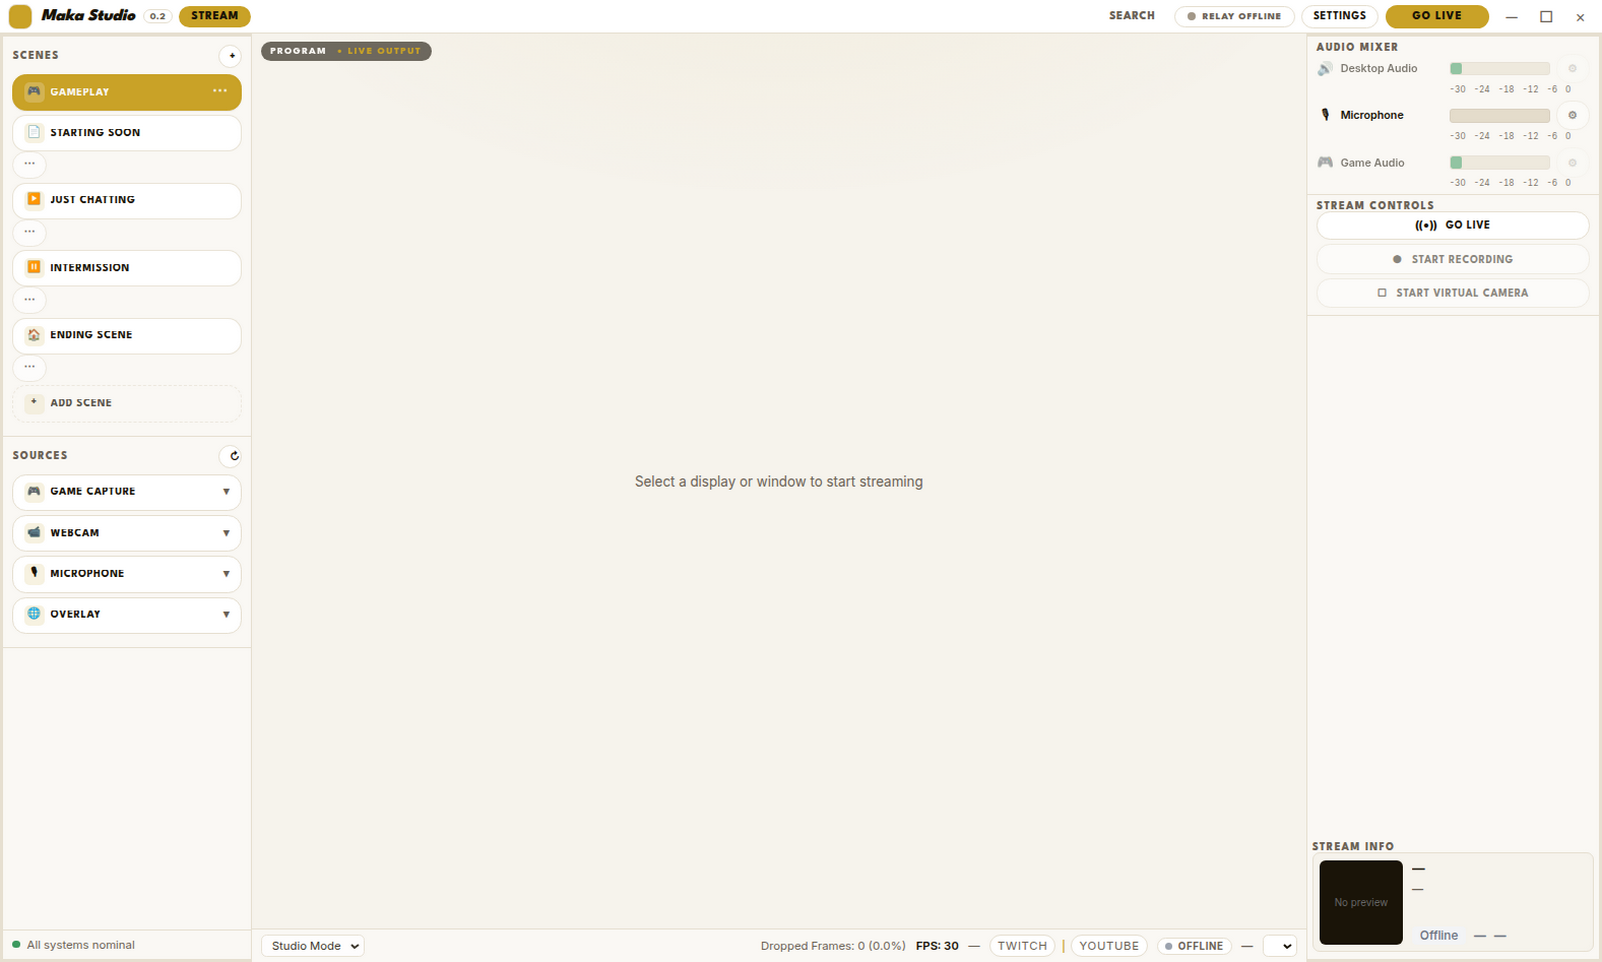
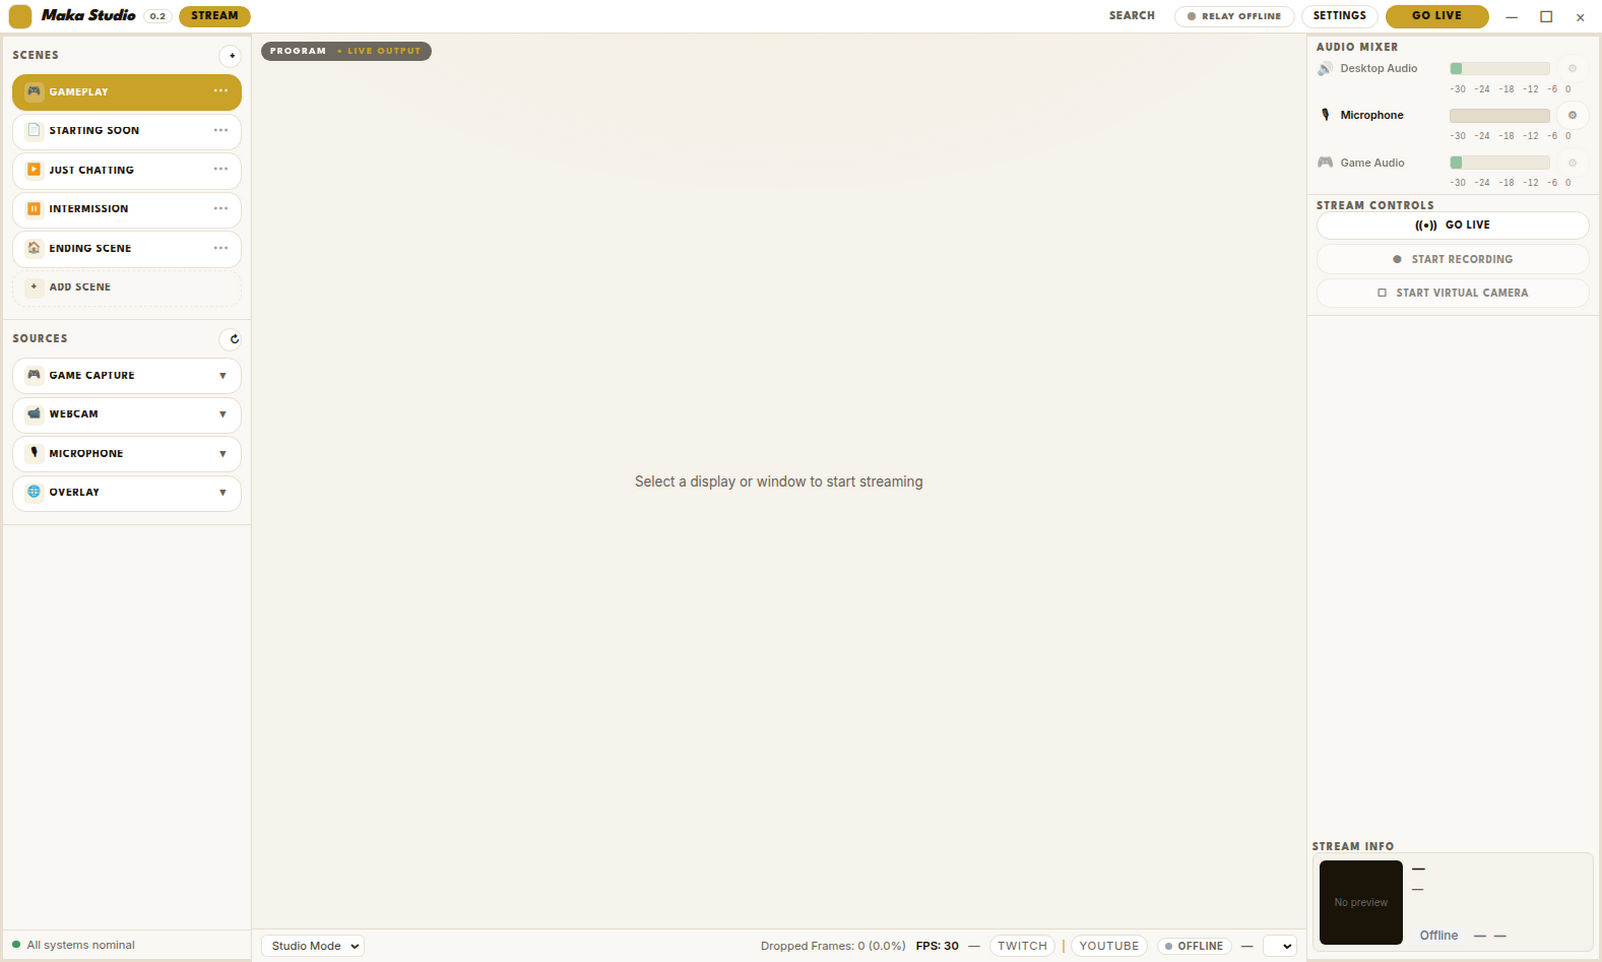
fix(studio): single-line scene/source rows with right-aligned menus
Nested scene menu buttons broke row markup; use span role=button inside
the row control. Switch list items to flex, tighten row gap/padding, and
align chevron/menu on the same line as labels.

diff --git a/src/renderer/app.html b/src/renderer/app.html
@@ -118,28 +118,28 @@
               <button type="button" class="studio-list-item" id="scene-starting" data-scene="starting-soon">
                 <span class="studio-list-leading scene-icon" aria-hidden="true">📄</span>
                 <span class="studio-list-text">Starting Soon</span>
-                <button type="button" class="studio-list-menu" data-scene-menu="starting-soon" aria-label="Scene options" title="Scene options">⋯</button>
+                <span role="button" tabindex="0" class="studio-list-menu" data-scene-menu="starting-soon" aria-label="Scene options" title="Scene options">⋯</span>
               </button>
             </li>
             <li>
               <button type="button" class="studio-list-item" id="scene-chatting" data-scene="desk-only">
                 <span class="studio-list-leading scene-icon" aria-hidden="true">▶</span>
                 <span class="studio-list-text">Just Chatting</span>
-                <button type="button" class="studio-list-menu" data-scene-menu="desk-only" aria-label="Scene options" title="Scene options">⋯</button>
+                <span role="button" tabindex="0" class="studio-list-menu" data-scene-menu="desk-only" aria-label="Scene options" title="Scene options">⋯</span>
               </button>
             </li>
             <li>
               <button type="button" class="studio-list-item" id="scene-intermission" data-scene="intermission">
                 <span class="studio-list-leading scene-icon" aria-hidden="true">⏸</span>
                 <span class="studio-list-text">Intermission</span>
-                <button type="button" class="studio-list-menu" data-scene-menu="intermission" aria-label="Scene options" title="Scene options">⋯</button>
+                <span role="button" tabindex="0" class="studio-list-menu" data-scene-menu="intermission" aria-label="Scene options" title="Scene options">⋯</span>
               </button>
             </li>
             <li>
               <button type="button" class="studio-list-item" id="scene-ending" data-scene="ending">
                 <span class="studio-list-leading scene-icon" aria-hidden="true">🏠</span>
                 <span class="studio-list-text">Ending Scene</span>
-                <button type="button" class="studio-list-menu" data-scene-menu="ending" aria-label="Scene options" title="Scene options">⋯</button>
+                <span role="button" tabindex="0" class="studio-list-menu" data-scene-menu="ending" aria-label="Scene options" title="Scene options">⋯</span>
               </button>
             </li>
             <li>

diff --git a/src/renderer/app.css b/src/renderer/app.css
@@ -29,7 +29,7 @@
   --radius: 1rem;
   --studio-pad-x: 0.6rem;
   --studio-pad-y: 0.5rem;
-  --studio-row-gap: 0.22rem;
+  --studio-row-gap: 0.14rem;
   --font-headline: "League Spartan", system-ui, sans-serif;
   --font-body: "Inter", "Segoe UI", system-ui, sans-serif;
   --font: var(--font-body);
@@ -467,19 +467,22 @@ body[data-mode='browse'] .app {
 
 .studio-list {
   list-style: none;
-  margin: 0 0 0.35rem;
+  margin: 0 0 0.28rem;
   padding: 0;
-  display: grid;
+  display: flex;
+  flex-direction: column;
   gap: var(--studio-row-gap);
 }
 
 .studio-list-item {
-  display: grid;
-  grid-template-columns: auto 1fr auto;
+  display: flex;
+  flex-direction: row;
+  flex-wrap: nowrap;
   align-items: center;
-  gap: 0.38rem;
+  gap: 0.32rem;
   width: 100%;
-  padding: 0.34rem 0.42rem;
+  min-height: 0;
+  padding: 0.28rem 0.38rem;
   border: 1px solid var(--line);
   border-radius: 0.55rem;
   background: var(--panel);
@@ -510,6 +513,7 @@ body[data-mode='browse'] .app {
 }
 
 .studio-list-text {
+  flex: 1 1 auto;
   min-width: 0;
   white-space: nowrap;
   overflow: hidden;
@@ -517,11 +521,17 @@ body[data-mode='browse'] .app {
 }
 
 .studio-list-menu {
+  flex: 0 0 auto;
+  display: inline-flex;
+  align-items: center;
+  justify-content: center;
+  align-self: center;
+  min-width: 1.1rem;
   color: var(--muted);
   font-size: 1rem;
   line-height: 1;
   letter-spacing: 0.02em;
-  padding: 0 0.1rem;
+  padding: 0 0.06rem;
   opacity: 0.65;
   border: none;
   background: transparent;
@@ -1603,7 +1613,7 @@ body:not([data-mode='browse']) #browsetabs {
 }
 
 .studio-source-list {
-  gap: 0.25rem;
+  gap: var(--studio-row-gap);
 }
 
 .studio-source-group {
@@ -1613,6 +1623,12 @@ body:not([data-mode='browse']) #browsetabs {
 }
 
 .studio-source-chevron {
+  flex: 0 0 auto;
+  display: inline-flex;
+  align-items: center;
+  justify-content: center;
+  align-self: center;
+  min-width: 0.85rem;
   color: var(--muted);
   font-size: 0.72rem;
   line-height: 1;

diff --git a/src/renderer/app.ts b/src/renderer/app.ts
@@ -3212,14 +3212,20 @@ if (sceneEnding) {
   sceneEnding.addEventListener('click', () => selectScene('ending'))
 }
 
-document.querySelectorAll<HTMLButtonElement>('[data-scene-menu]').forEach((btn) => {
-  btn.addEventListener('click', (event) => {
+document.querySelectorAll<HTMLElement>('[data-scene-menu]').forEach((btn) => {
+  const openSceneMenu = (event: Event) => {
     event.stopPropagation()
     const id = btn.dataset.sceneMenu
     if (!id || !sceneSupportsImageUpload(id)) return
     sceneImageMenuTargetId = id
     sceneImageMenuClear.disabled = !sceneImagePaths[id]
     sceneImageMenuDialog.showModal()
+  }
+  btn.addEventListener('click', openSceneMenu)
+  btn.addEventListener('keydown', (event) => {
+    if (event.key !== 'Enter' && event.key !== ' ') return
+    event.preventDefault()
+    openSceneMenu(event)
   })
 })
 
